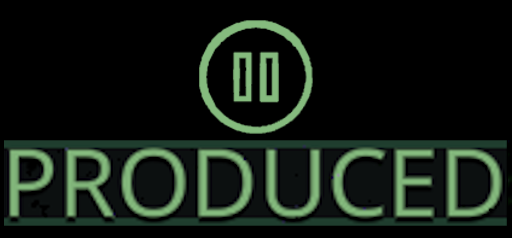
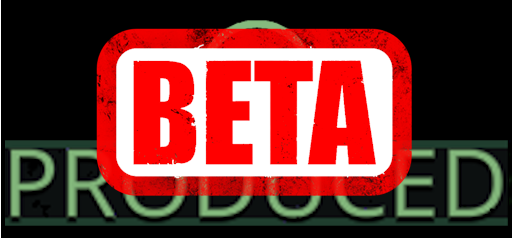
Compatible with the 0.8.6 opt in beta

diff --git a/src/ItemProductionSystem__Update_Patch.cs b/src/ItemProductionSystem__Update_Patch.cs
@@ -38,8 +38,9 @@ namespace QM_PauseOnProduction
                 //  causes the production screen to show "Foo <1" instead of the item being completed.
 
                 ShowProduction = false;
-                SpaceshipScreen spaceship = SingletonMonoBehaviour<SpaceUI>.Instance.SpaceshipScreen;
-                spaceship.MagnumProductionWindow.Show();
+
+                //Debug
+                //UI.Chain<MagnumProductionWindow>().Show();
             }
 
             bool queueCompleted = magnumCargo.ItemProduceOrders.Values
@@ -49,8 +50,11 @@ namespace QM_PauseOnProduction
             if (queueCompleted)
             {
 
-                SpaceshipScreen spaceship = SingletonMonoBehaviour<SpaceUI>.Instance.SpaceshipScreen;
-                spaceship.Show();
+                UI.Chain<MagnumProductionWindow>().Show();
+
+                //TODO:  Is this needed?
+                //SpaceshipScreen spaceship = SingletonMonoBehaviour<SpaceUI>.Instance.SpaceshipScreen;
+                //spaceship.Show();
 
                 ShowProduction = true;
             }

diff --git a/src/Properties/AssemblyInfo.cs b/src/Properties/AssemblyInfo.cs
@@ -32,5 +32,4 @@ using System.Runtime.InteropServices;
 // You can specify all the values or you can default the Build and Revision Numbers
 // by using the '*' as shown below:
 // [assembly: AssemblyVersion("1.0.*")]
-[assembly: AssemblyVersion("1.0.0.0")]
-[assembly: AssemblyFileVersion("1.0.0.0")]
+[assembly: AssemblyVersion("1.3.0.0")]

diff --git a/README.md b/README.md
@@ -2,6 +2,19 @@
 
 ![Production Pause logo](./media/ProducedWithPause.png)
 
+# Important - This version of the mod is only for the opt in beta version of the game!
+
+This is a temporary version that supports the 0.8.6 beta, and not the current game's version.
+For the non beta version of the game, use the mod of the same name without the BETA suffix.
+
+The non beta version *must* be uninstalled.  
+When the 0.8.6 becomes the main version, this mod will be deleted.
+Note that the beta is expected to change many times before release.
+As such, this mod may break on each beta release.
+
+# Docs
+
+
 When the last item in a queue is produced, the game will be paused and the production screen will be opened.
 
 # Support
@@ -13,6 +26,9 @@ Thanks!
 Source code is available on GitHub https://github.com/NBKRedSpy/QM_PauseOnProduction
 
 # Change Log
+
+# 1.3.0
+Compatible with the 0.8.6 opt in BETA
 
 # 1.2.0
 * Changed to open the production window when the last item of a queue is completed.
